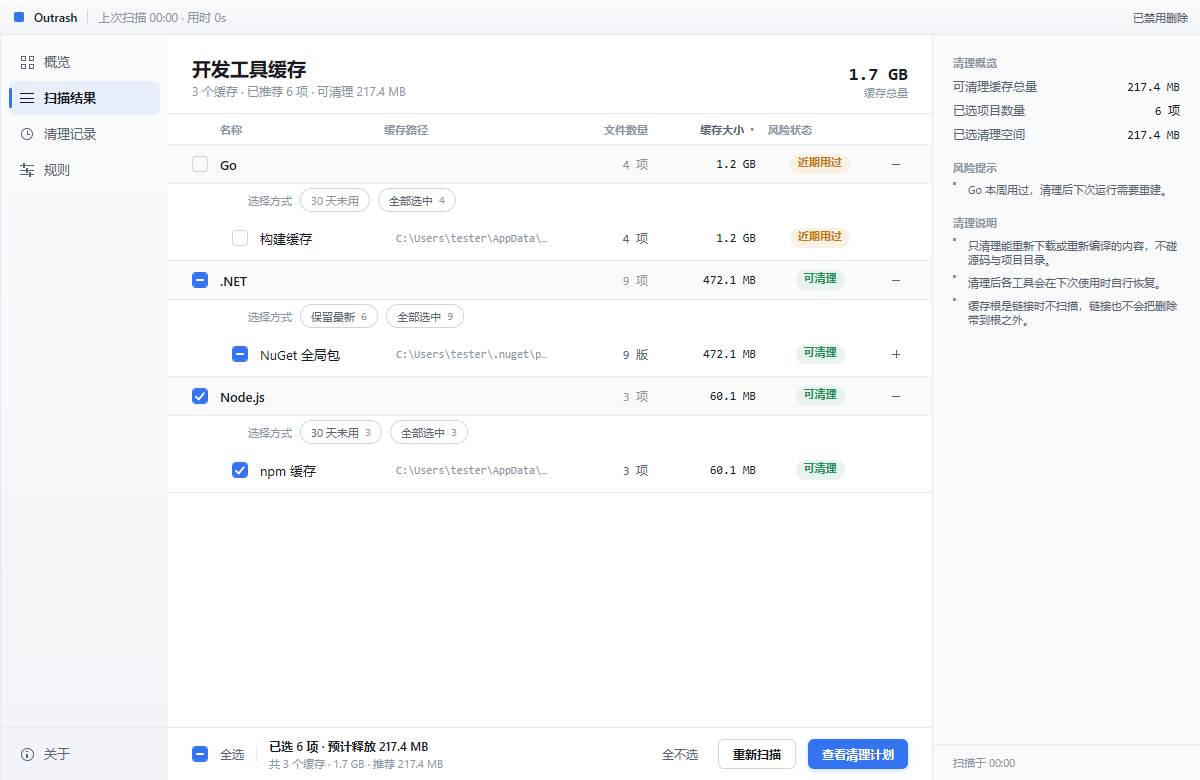
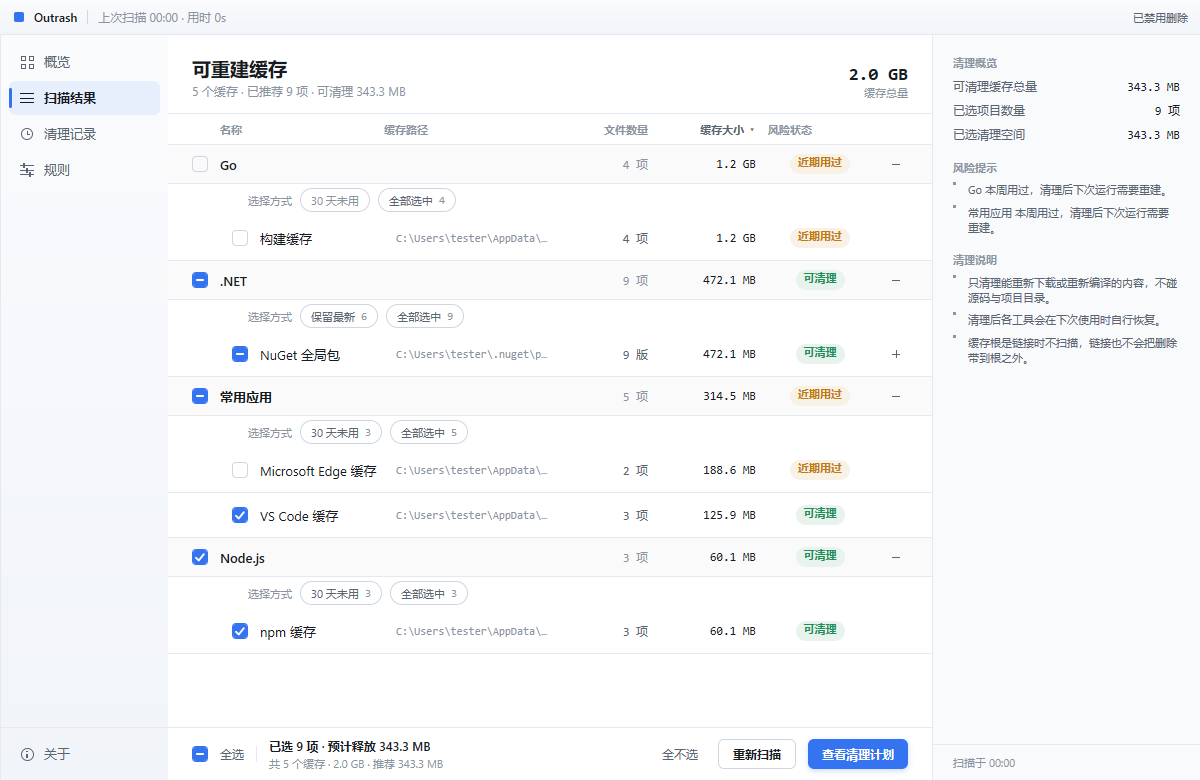
Clean the caches of everyday apps, not only developer tools (#81)
The catalog now carries a 常用应用 group: Edge, Chrome, Firefox, VS Code,
Slack, Discord, Teams and Spotify, 32 items over 9 groups. These are the
same kind of thing the tool already cleaned — a program can fetch its own
cache again — so the product's name for itself widens too: the results
page, the overview and the about sheet say 可重建缓存.

Browsers and chat apps keep one cache per profile under a folder the user
names, so a path template may now contain a wildcard. It is expanded with
Glob, which returns only paths that exist: a pattern matching nothing adds
nothing, and the scan keeps measuring real directories only.

The patterns name Default and Profile * rather than a bare *, because the
user-data root also holds GPU caches beside the profiles; a bare star
swept those up under a name that says nothing about where they come from.

Closes #78

diff --git a/internal/app/app.go b/internal/app/app.go
@@ -764,17 +764,17 @@ func (a *App) pageHeader(c *ui.Context) {
 func (a *App) pageTitle() (title, sub string) {
 	switch a.page {
 	case pageOverview:
-		return "概览", "扫描本机开发工具的缓存目录，只列出能重新下载或重新编译的内容"
+		return "概览", "扫描本机开发工具与常用应用留下的缓存，只列出能重新下载或重新编译的内容"
 	case pageResults:
 		if a.phase == phaseScanning {
-			return "开发工具缓存", "正在扫描环境变量与各工具的默认位置"
+			return "可重建缓存", "正在扫描环境变量与各工具的默认位置"
 		}
 		n, failed := a.itemStats()
 		sub = fmt.Sprintf("%d 个缓存 · 已推荐 %d 项 · 可清理 %s", n, a.recommendedCount(), core.Bytes(a.recommendedBytes()))
 		if failed > 0 {
 			sub += fmt.Sprintf(" · %d 个读取失败", failed)
 		}
-		return "开发工具缓存", sub
+		return "可重建缓存", sub
 	case pageLog:
 		return "清理记录", "本次会话的清理结果；记录只存在内存里，退出即消失"
 	}
@@ -803,10 +803,10 @@ func (a *App) overviewPage(c *ui.Context) {
 	p := a.pal
 	ui.Column(c).Padding(24).Gap(24).Children(func() {
 		ui.Column(c).Gap(6).Children(func() {
-			ui.Text(c, "清理开发工具缓存").FontSize(16).FontWeight(600).TextColor(p.Ink)
-			ui.Text(c, "扫描 NuGet、npm、Go、Cargo 等工具留下的依赖与构建缓存，勾选后一次清理。").
+			ui.Text(c, "清理可重建缓存").FontSize(16).FontWeight(600).TextColor(p.Ink)
+			ui.Text(c, "扫描开发工具与常用应用留下的缓存，勾选后一次清理。").
 				FontSize(12).TextColor(p.Ink2)
-			ui.Text(c, "清理后各工具会在下次使用时自行重新下载或重新编译。").
+			ui.Text(c, "只列出能重新下载或重新编译的内容，清理后各工具会在下次使用时自行恢复。").
 				FontSize(12).TextColor(p.Ink2)
 		})
 		ui.Row(c).Height(1).Background(p.Rule)

diff --git a/internal/app/render_test.go b/internal/app/render_test.go
@@ -94,9 +94,34 @@ func fixture() *core.Cache {
 	}
 	gocache.Roots = []core.Root{goRoot}
 
+	var edge core.Result
+	edge.GroupID, edge.ItemID, edge.Unit = "apps", "edge", core.UnitEntries
+	edgeCache := core.Root{Path: `C:\Users\tester\AppData\Local\Microsoft\Edge\User Data\Default\Cache`, Source: "默认位置"}
+	edgeCache.Entries = []core.Entry{{Name: "Cache_Data", Path: edgeCache.Path + `\Cache_Data`, Size: 114_500_000, ModTime: fixedTime(1)}}
+	edgeCache.Size = 114_500_000
+	edgeCode := core.Root{Path: `C:\Users\tester\AppData\Local\Microsoft\Edge\User Data\Default\Code Cache`, Source: "默认位置"}
+	edgeCode.Entries = []core.Entry{{Name: "js", Path: edgeCode.Path + `\js`, Size: 83_300_000, ModTime: fixedTime(1)}}
+	edgeCode.Size = 83_300_000
+	edge.Roots = []core.Root{edgeCache, edgeCode}
+
+	var vscode core.Result
+	vscode.GroupID, vscode.ItemID, vscode.Unit = "apps", "vscode", core.UnitEntries
+	vsRoot := core.Root{Path: `C:\Users\tester\AppData\Roaming\Code\CachedExtensionVSIXs`, Source: "默认位置"}
+	for i, n := range []string{"vscodevim", "golang.go", "rust-lang"} {
+		vsRoot.Entries = append(vsRoot.Entries, core.Entry{
+			Name: n, Path: vsRoot.Path + `\` + n + ".vsix", Size: int64(43_000_000 + i*1_000_000), ModTime: fixedTime(40),
+		})
+	}
+	for _, e := range vsRoot.Entries {
+		vsRoot.Size += e.Size
+	}
+	vscode.Roots = []core.Root{vsRoot}
+
 	add(nuget)
 	add(npm)
 	add(gocache)
+	add(edge)
+	add(vscode)
 	return c
 }
 
@@ -193,7 +218,7 @@ func TestNavRailSwitchesPages(t *testing.T) {
 		want  page
 		text  string
 	}{
-		{"概览", pageOverview, "清理开发工具缓存"},
+		{"概览", pageOverview, "清理可重建缓存"},
 		{"清理记录", pageLog, "本次会话还没有清理记录"},
 		{"规则", pageRules, "清理方式"},
 		{"扫描结果", pageResults, "缓存路径"},

diff --git a/internal/core/rules_test.go b/internal/core/rules_test.go
@@ -132,6 +132,44 @@ func TestUnique(t *testing.T) {
 	}
 }
 
+// A browser keeps one cache per profile under a folder the user names, so the
+// catalog matches them with a wildcard. Only existing folders may come back:
+// a pattern that matches nothing must not become a path the scan measures and
+// the plan could offer, and a sibling folder must not be swept up by it.
+func TestRootsExpandsWildcardToExistingProfiles(t *testing.T) {
+	home := t.TempDir()
+	userData := filepath.Join(home, "User Data")
+	for _, dir := range []string{"Default", "Profile 1", "GPUPersistentCache"} {
+		if err := os.MkdirAll(filepath.Join(userData, dir, "Cache"), 0o755); err != nil {
+			t.Fatal(err)
+		}
+	}
+	o := Options{GOOS: "windows", Home: home, Getenv: env(map[string]string{"LOCALAPPDATA": home})}
+	roots := func(pattern ...string) []string {
+		dirs, _ := Item{Paths: map[string][]string{"windows": pattern}}.Roots(o)
+		return dirs
+	}
+
+	// Default is named literally, the numbered profiles by prefix: Chrome and
+	// Edge name no profile "Default 1", and a bare * also catches the GPU
+	// caches that live beside the profiles.
+	got := roots(
+		filepath.Join("%LOCALAPPDATA%", "User Data", "Default", "Cache"),
+		filepath.Join("%LOCALAPPDATA%", "User Data", "Profile *", "Cache"),
+	)
+	want := []string{
+		filepath.Join(userData, "Default", "Cache"),
+		filepath.Join(userData, "Profile 1", "Cache"),
+	}
+	if len(got) != len(want) || got[0] != want[0] || got[1] != want[1] {
+		t.Fatalf("dirs %v, want %v", got, want)
+	}
+
+	if dirs := roots(filepath.Join(home, "nobody", "*", "Cache")); len(dirs) != 0 {
+		t.Fatalf("a wildcard matching nothing produced %v", dirs)
+	}
+}
+
 func TestDefaultOptionsReadsHome(t *testing.T) {
 	o := DefaultOptions()
 	if o.GOOS == "" || o.Home == "" || o.Getenv == nil || o.Run == nil {

diff --git a/internal/core/rules.go b/internal/core/rules.go
@@ -175,9 +175,23 @@ func (it Item) Roots(o Options) (dirs []string, source string) {
 		}
 	}
 	for _, tpl := range it.Paths[o.GOOS] {
-		if d, ok := expand(tpl, o); ok {
-			dirs = append(dirs, d)
+		d, ok := expand(tpl, o)
+		if !ok {
+			continue
 		}
+		// A template may name a per-profile folder with a wildcard, because
+		// browsers and chat apps keep one cache per profile under a name the
+		// user chose. Glob only ever returns paths that exist, so a pattern
+		// that matches nothing adds nothing.
+		if strings.ContainsAny(d, "*?[") {
+			matches, err := filepath.Glob(d)
+			if err != nil {
+				continue
+			}
+			dirs = append(dirs, matches...)
+			continue
+		}
+		dirs = append(dirs, d)
 	}
 	dirs = unique(dirs)
 	if anyExists(dirs) {

diff --git a/internal/app/sheet.go b/internal/app/sheet.go
@@ -168,7 +168,7 @@ func (a *App) aboutSheet(c *ui.Context) {
 					ui.Text(c, "Outrash").FontSize(20).FontWeight(650).TextColor(p.Ink).SingleLine()
 					ui.Text(c, "版本 "+appVersion()).Font(core.Mono()).FontSize(12).
 						TextColor(p.Ink3).SingleLine()
-					ui.Text(c, "扫描并清理开发工具留下的缓存").FontSize(12).
+					ui.Text(c, "扫描并清理可重建的缓存").FontSize(12).
 						TextColor(p.Ink2).SingleLine()
 				})
 				ui.Box(c).Height(1).Shrink(0).Background(p.Rule)

diff --git a/main.go b/main.go
@@ -1,6 +1,6 @@
-// outrash finds the dependency caches of developer tools and shows what can
-// be rebuilt. The checked rows are the plan; the window only deletes when the
-// user presses the button that confirms them.
+// outrash finds the caches of developer tools and everyday apps and shows what
+// can be rebuilt. The checked rows are the plan; the window only deletes when
+// the user presses the button that confirms them.
 package main
 
 import (

diff --git a/internal/core/catalog_test.go b/internal/core/catalog_test.go
@@ -29,7 +29,7 @@ func TestCatalogCoversCommonTools(t *testing.T) {
 	}
 	for _, id := range []string{
 		"npm", "pnpm", "go-build", "go-mod", "nuget-packages", "cargo-registry", "pip",
-		"huggingface",
+		"huggingface", "edge", "chrome", "vscode",
 	} {
 		if !have[id] {
 			t.Errorf("catalog lost %q", id)

diff --git a/README.md b/README.md
@@ -1,8 +1,10 @@
 # outrash
 
-开发工具会在硬盘上攒下一堆缓存：npm 的包、Go 的编译产物、NuGet 下载过的库……它们占着几个 GB，但删掉不会丢东西——下次用到时工具自己会重新下载或重新编译。
+硬盘上到处是不需要留着的缓存：npm 的包、Go 的编译产物、NuGet 下载过的库、浏览器存下的网页资源……它们占着几个 GB，但删掉不会丢东西——下次用到时对方自己会重新下载或重新编译。
 
-问题从来不是"该不该删"，而是"哪一堆能删"。outrash 就是回答这个问题的：它去各个工具默认会用的位置扫一遍，把找到的缓存按工具分组列出来，标上大小和最后使用时间，你看着勾选，按一次按钮清掉。
+问题从来不是"该不该删"，而是"哪一堆能删"。outrash 就是回答这个问题的：它去各个程序默认会用的位置扫一遍，把找到的缓存按分组列出来，标上大小和最后使用时间，你看着勾选，按一次按钮清掉。
+
+它一开始只认识开发工具，现在范围放宽到所有"删了能自己回来"的缓存，开发工具和常用应用都在里面。
 
 ![扫描结果](docs/screenshot.png)
 
@@ -12,7 +14,7 @@
 
 ## 能清理什么
 
-一共 8 组、24 个缓存项：
+一共 9 组、32 个缓存项：
 
 | 分组 | 缓存 |
 |---|---|
@@ -23,9 +25,10 @@
 | Python | pip、uv、Poetry、Conda |
 | AI 模型 | Hugging Face 模型缓存 |
 | JVM | Gradle |
+| 常用应用 | Edge、Chrome、Firefox、VS Code、Slack、Discord、Teams、Spotify |
 | 其他 | Flutter / Dart、Composer、Swift Package、vcpkg |
 
-每个工具的缓存位置先读它自己的环境变量（比如 `npm_config_cache`），没有就退回到各平台的默认目录。
+每个程序的缓存位置先读它自己的环境变量（比如 `npm_config_cache`），没有就退回到各平台的默认目录。浏览器和聊天软件按配置文件各存一份缓存，规则里用通配符匹配，所以新建的配置文件也会被扫到。
 
 ## 它不会做的事
 

diff --git a/AGENTS.md b/AGENTS.md
@@ -1,6 +1,6 @@
 # outrash
 
-Windows-first dev-cache cleaner. Go + mygo native UI. Cross-platform logic, no webviews.
+Windows-first cache cleaner for developer tools and everyday apps: whatever a program can download or rebuild itself. Go + mygo native UI. Cross-platform logic, no webviews.
 
 ## Hard rules
 
